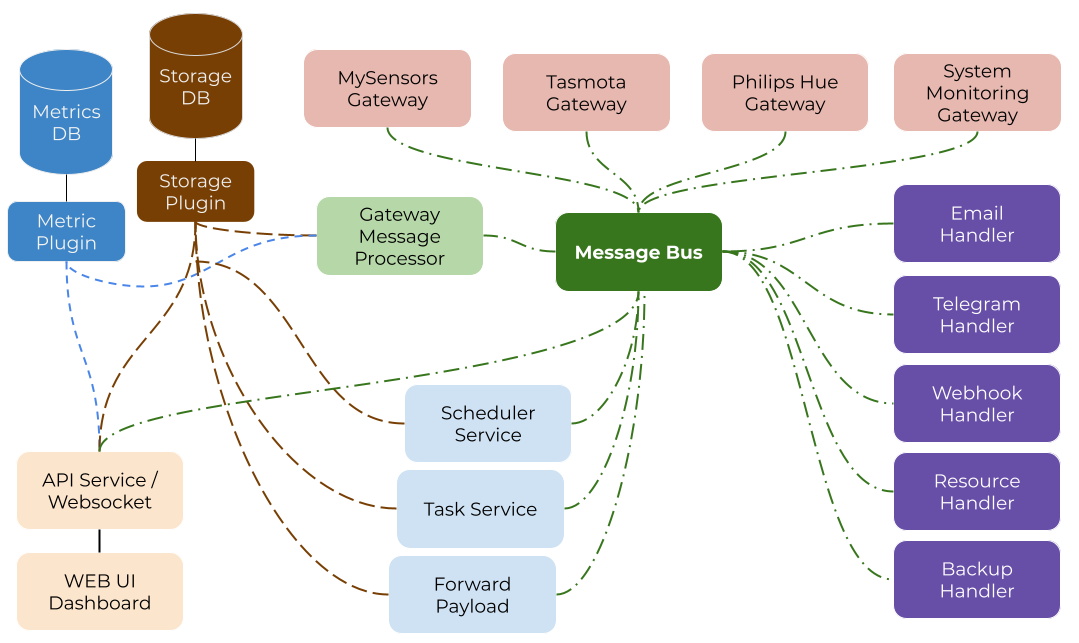
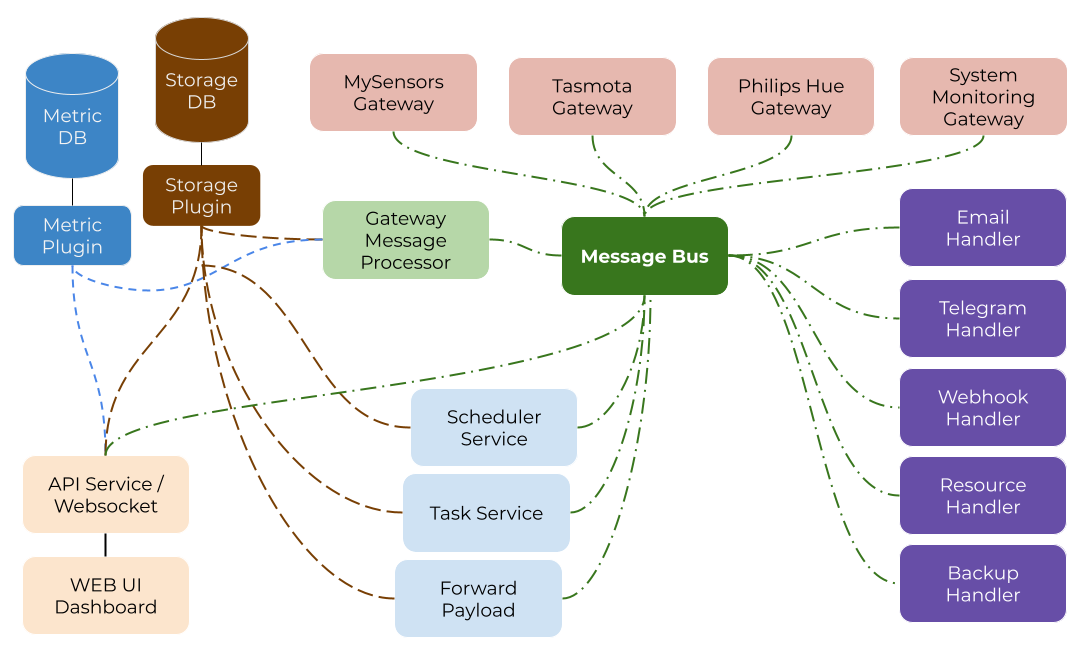
core bundle removed

diff --git a/content/en/_index.html b/content/en/_index.html
@@ -5,7 +5,7 @@ linkTitle = "MyController.org"
 
 {{< blocks/cover title="Welcome to MyController" image_anchor="top" height="full" color="gray" >}}
 <div class="mx-auto">
-	<a class="btn btn-lg btn-success mr-4 mb-5 rounded-1" target="_blank" href="https://github.com/mycontroller-org">
+	<a class="btn btn-lg btn-success mr-4 mb-5 rounded-1" target="_blank" href="https://github.com/mycontroller-org/backend">
 		GitHub <i class="fab fa-github fa-lg ml-2"></i>
 	</a>
 	<a class="btn btn-lg btn-success mr-4 mb-5" target="_blank" href="https://demo-v2.mycontroller.org/">
@@ -19,7 +19,7 @@ linkTitle = "MyController.org"
 		MyController is a flexible automation and sensor controller for IoT devices.<br>
 		Whether in the home, at work, or wherever you need it, MyController provides the solution!<br>
 		<br><b><u>Privacy focused</u></b> - working locally and not in the cloud means your data stays safely with you. Fully functional out of the box. No internet connection needed to run.<br>
-		<b><u>Lightweight</u></b> - runs on both Windows and Linux including Raspberry Pi zero, 1, 2, 3, and 4. Requires only 50MB of memory and 100MB of disk.<br>
+		<b><u>Lightweight</u></b> - runs on both Windows and Linux including Raspberry Pi zero, 1, 2, 3, and 4. Requires only 50MiB of memory and 100MiB of disk.<br>
 	</p>
 
 </div>

diff --git a/content/en/docs/quick-installation/_index.md b/content/en/docs/quick-installation/_index.md
@@ -4,15 +4,13 @@ linkTitle: "Quick Installation"
 weight: 3
 ---
 
-MyController.org 2.x can be installed in different way.
-Here we are going to focus **all-in-one** setup.<br>
-all-in-one is the common setup suits for most of the users
+MyController.org 2.x can be installed in different way.<br>
 
 If the quick installation is not fulfil your requirements follow [advanced Installation guide](/docs/advanced-installation/)<br>
-To know more about all-in-one setup [follow this guide](/docs/overview/#all-in-one-bundle-and-setup)
+To know more about server setup [follow this guide](/docs/overview/#server-bundle-and-setup)
 
 ## Prerequisites
-Prerequisites to setup MyController all-in-one
+Prerequisites to setup MyController server
 * [InfluxDB Installation Guide](/docs/getting-started/install-influxdb)
 * Optional
   * [Mosquitto Installation Guide](/docs/getting-started/install-mosquitto)
@@ -45,7 +43,7 @@ Download the executable bundle that matches to your operating system architectur
 
 #### Download 
 * Here we are focusing on `arm` architecture (Raspberry Pi). You can follows this guide for other architecture too.
-* Download [mycontroller-all-in-one-{{< variable "version" >}}-linux-arm.tar.gz](https://download.mycontroller.org/v2/master/mycontroller-all-in-one-{{< variable "version" >}}-linux-arm.tar.gz)<br>
+* Download [mycontroller-server-{{< variable "version" >}}-linux-arm.tar.gz](https://download.mycontroller.org/v2/master/mycontroller-server-{{< variable "version" >}}-linux-arm.tar.gz)<br>
 
 
 {{< alert title="Note" >}}
@@ -65,8 +63,8 @@ If you want to run MyController server with `root`, you should include `sudo` in
  
   # download the bundle and extract on executable directory
   cd /opt/apps/mycontroller
-  wget https://download.mycontroller.org/v2/master/mycontroller-all-in-one-{{< variable "version" >}}-linux-arm.tar.gz
-  tar xzf mycontroller-all-in-one-{{< variable "version" >}}-linux-arm.tar.gz  --strip-components=1 --directory /opt/apps/mycontroller/executable
+  wget https://download.mycontroller.org/v2/master/mycontroller-server-{{< variable "version" >}}-linux-arm.tar.gz
+  tar xzf mycontroller-server-{{< variable "version" >}}-linux-arm.tar.gz  --strip-components=1 --directory /opt/apps/mycontroller/executable
   ```
 * now we have isolated MyController server *data* and *executables*, the expected result will be as follows,
 * **NOTE:** still, we have to keep the configuration file (`mycontroller.yaml`) file on the executable directory
@@ -75,7 +73,7 @@ If you want to run MyController server with `root`, you should include `sudo` in
   insecure_share  secure_share
   
   $ ls /opt/apps/mycontroller/executable # MyController server executable location
-  LICENSE.txt  logs  mcctl.sh  mycontroller-all-in-one  mycontroller.yaml  README.txt  web_console
+  LICENSE.txt  logs  mcctl.sh  mycontroller-server  mycontroller.yaml  README.txt  web_console
   ```
 
 #### Update mycontroller.yaml file
@@ -185,7 +183,7 @@ If you are running from non-root user, you should include `sudo` in the beginnin
   ```bash
   cd /opt/apps/mycontroller
   
-  curl https://raw.githubusercontent.com/mycontroller-org/backend/master/resources/sample-docker-all-in-one.yaml \
+  curl https://raw.githubusercontent.com/mycontroller-org/backend/master/resources/sample-docker-server.yaml \
     --output mycontroller.yaml
   ```
 
@@ -244,7 +242,7 @@ If you are running from non-root user, you should include `sudo` in the beginnin
     --volume $PWD/mycontroller.yaml:/app/mycontroller.yaml \
     --env TZ="Asia/Kolkata" \
     --restart unless-stopped \
-    docker.io/mycontroller/all-in-one:{{< variable "version" >}}
+    docker.io/mycontroller/server:{{< variable "version" >}}
   ```
 
 * Access MyController server Web UI

diff --git a/content/en/docs/overview/_index.md b/content/en/docs/overview/_index.md
@@ -16,18 +16,18 @@ MyController 2.x is completely redesigned.
 * Backend
   * [GoLang](https://golang.org/)
   * [Nats.io](https://nats.io/) - Message Bus
-* Databases
+* Supported Databases
   * Storage
     * In-Memory - developed and maintained by MyController.org
     * [MongoDB](https://www.mongodb.com/)
-  * Metrics
+  * Metric
     * [InfluxDB](https://www.influxdata.com/products/influxdb/)
 * Frontend - Web Console
   * [ReactJS](https://reactjs.org/)
   * [PatternFly](https://www.patternfly.org/)
   * [react-grid-layout](https://github.com/react-grid-layout/react-grid-layout) - Dashboard
 * Documentation
-  * [HUGO](https://gohugo.io/)
+  * [gohugo](https://gohugo.io/)
   * [docsy](https://www.docsy.dev/)
 
 ## [Architecture Guide](/docs/overview/architecture/)
@@ -35,28 +35,28 @@ MyController 2.x is completely redesigned.
 ## MyController Services and Bundles
 MyController has many services and all communicates via `Message Bus`.<br>
 Based on the services and use cases, MyController bundled as follows,
-  - [All-In-One bundle](#all-in-one-bundle-and-setup)
-  - [Core bundle](#core-bundle-and-setup)
-  - [Gateway bundle](#gateway-bundle-and-setup)
+  - [Server](#server-setup)
+  - [Gateway](#gateway-setup)
+  - [Handler](#handler-setup)
 
-### All-In-One bundle and setup
-![all-in-one setup](/doc-images/all-in-one-setup.png)
-* **This is the most suitable package for most of the use cases**
-* This package contains MyController Core services + Gateway service
+### Server Setup
+![server setup](/doc-images/server-setup.png)
+* This package contains MyController Server + Gateway + Handler services
 * All the services combined and bundled as single binary
-* With All-In-One package it is possible to use `Embedded` Bus, which cannot be accessible outside of the MyController server (**Options #1**)
-* If you plan to use `external gateway` you have to go with [external bus service (natsio)](/docs/getting-started/install-natsio/) (**Option #2**)
+* As it has all the services in a single binary, It is possible to use `embedded` Bus, which cannot be accessible outside of the MyController server (**Options #1**)
+* If you have plan to use external `gateway`, or `handler` you have to go with [external bus service (natsio)](/docs/getting-started/install-natsio/) (**Option #2**)
 
-### Core bundle and setup
-![core setup](/doc-images/core-setup.png)
-* This package contains MyController Core services only. Gateway service excluded
-* It is mandatory to run external bus service for this setup to join a gateway
-
-### Gateway bundle and setup
+### Gateway Setup
 ![gateway setup](/doc-images/gateway-setup.png)
-* This package contains only gateway service component
-* This service can be connected to a `Core Service` or `All-In-One service` via a external message bus.
-* You can have a multiple gateway services on a different hosts
+* There is a gateway only bundle
+* This service can be connected to a MyController server via the external message bus.
+* You can have many number of gateway services on different hosts
+
+### Handler Setup
+![handler setup](/doc-images/handler-setup.png)
+* There is a handler only bundle
+* This service can be connected to a MyController server via the external message bus.
+* You can have many number of handler services on different hosts
 
 ## Supported Providers
 * [ESPHome](https://esphome.io/)

diff --git a/content/en/docs/getting-started/install-influxdb.md b/content/en/docs/getting-started/install-influxdb.md
@@ -49,7 +49,8 @@ Optionally you can disable self monitoring metrics to avoid unnecessary CPU and 
   systemctl restart influxdb.service
   ```
 
-### Create a database for MyController usage in influxDB
+###  (Optional) Create a database for MyController usage in influxDB
+If the database user has admin privilege, database will be created automatically by MyController server.
 ```bash
 root@rpi-171:~# influx
 Connected to http://localhost:8086 version 1.8.5
@@ -123,7 +124,9 @@ docker run --detach --name mc_influxdb \
     influxdb:1.8.4
 ```
 
-### Create a database for MyController usage in influxDB
+### (Optional) Create a database for MyController usage in influxDB
+If the database user has admin privilege, database will be created automatically by MyController server.
+
 * enter inside running docker container
 * execute `influx` command inside the influx container as follows
 * create a database by running `create database mycontroller`

diff --git a/content/en/docs/user-interface/dashboard/_index.md b/content/en/docs/user-interface/dashboard/_index.md
@@ -1,0 +1,7 @@
+---
+title: "Dashboard"
+linkTitle: "Dashboard"
+weight: 2
+---
+
+TBD
